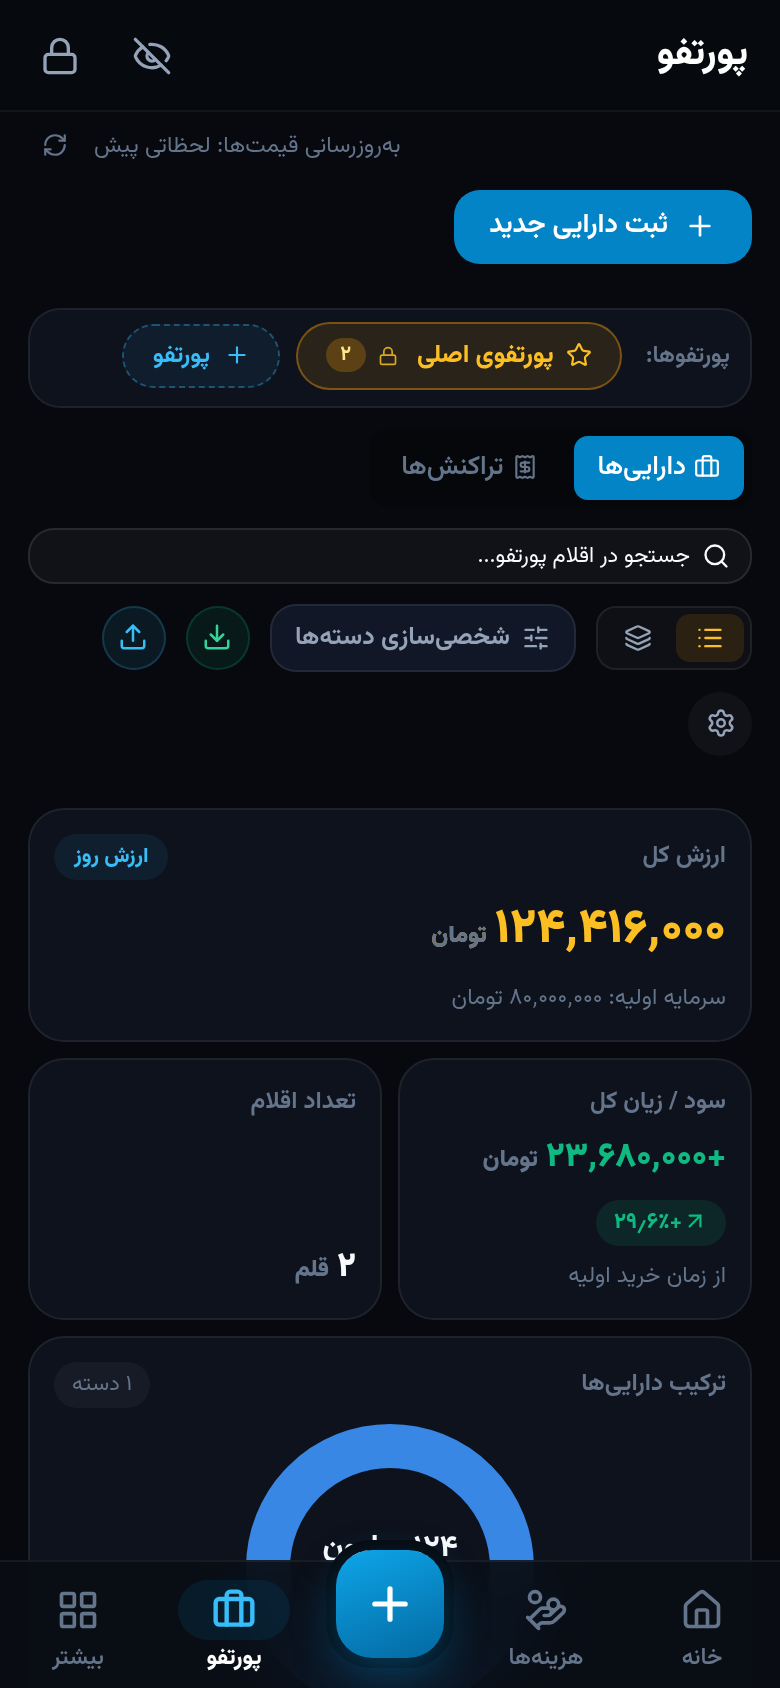
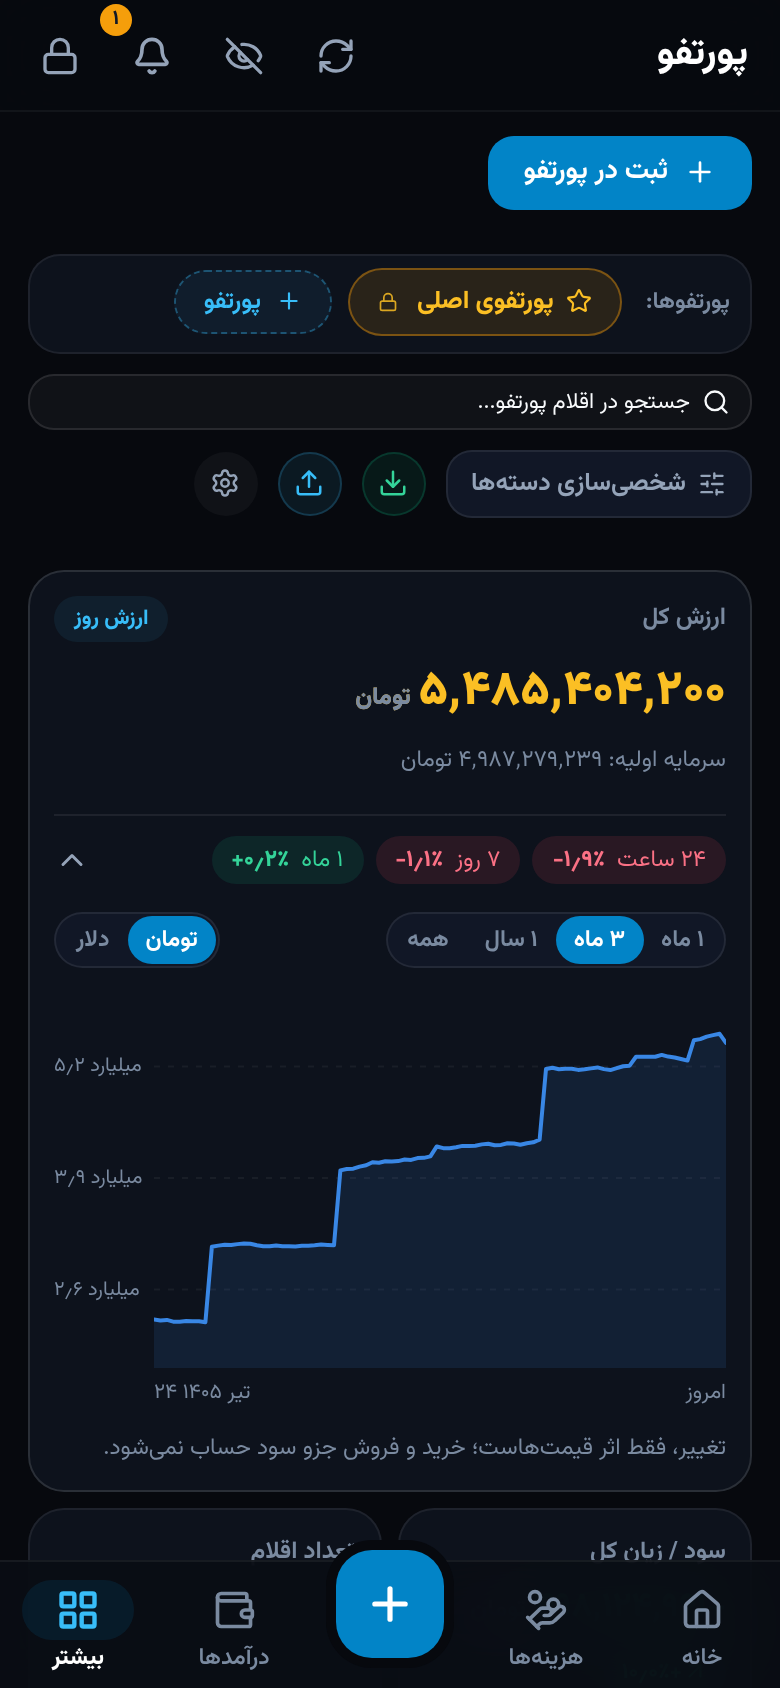
Refresh README screenshots and feature text
Claude-Session: https://claude.ai/code/session_01AQJzLh9vnnSBT1KQM6wZ1J

diff --git a/README.md b/README.md
@@ -18,40 +18,42 @@
 
 **RealRate** سامانه تحلیل بازار طلا، سکه و ارز و مدیریت مالی شخصی است که روی لبه Cloudflare اجرا میشود:
 ارزش ذاتی و حباب طلا و سکه، نرخ ارزها و بورس، اخبار مهم بازار و تحلیل روز با هوش مصنوعی، و مدیریت پورتفو، هزینهها، حسابها، وامها، درآمدها، چکها و اشتراکها با گزارش سالانه — همه با رمزنگاری سرتاسری.
-نسخهی وب در [realrate.geekio.org](https://realrate.geekio.org) است و اپ اندروید (با ثبت خودکار هزینه از پیامک بانک) از [صفحهی اپ](https://realrate.geekio.org/android) یا
+نسخهی وب در [realrate.geekio.org](https://realrate.geekio.org) است و اپ اندروید (نسخهی کامل با ثبت خودکار هزینه از پیامک بانک، و نسخهی بدون پیامک برای فروشگاههایی مثل Google Play) از [صفحهی اپ](https://realrate.geekio.org/android) یا
 [آخرین Release](https://github.com/nos486/realrate/releases/latest/download/realrate.apk) دانلود میشود.
 
 ## امکانات
 
 - **بازار**: ارزش ذاتی و حباب طلا و سکه (حباب سکهها را خود برنامه از انس و دلار حساب میکند)، ۱۶ ارز و تتر، نمادهای بورس و صندوقها — بهروزرسانی خودکار (هر سورس حداکثر هر ۵ دقیقه) و صفحهی اصلی قابل شخصیسازی (با میانگینها، داراییهای مرتبط، کارت ترکیبی با فرمول دلخواه و «آخرین تغییر» هر قیمت) (صفحهی نرخ و حباب برای کاربران Pro)
-- **پورتفو**: پورتفوهای چندگانه، تراکنش خرید/فروش با میانگین موزون، سود و زیان زنده، دستههای سفارشی، اشتراک عمومی
+- **پورتفو**: پورتفوهای چندگانه، تراکنش خرید/فروش با میانگین موزون، سود و زیان زنده، نمودار تاریخچهی ارزش از اولین خرید تا امروز (به تومان یا دلار، با تغییر ۲۴ ساعته، ۷ روزه و ۱ ماهه روی کارت «ارزش کل»)، دستههای سفارشی، اشتراک عمومی
 - **هزینهها**: هزینههای روزمره با دسته و بودجه ماهانه؛ پروژهها (پروژه جای هزینه است نه دستهی آن، و هر هزینهی پروژه دستهی خودش را دارد)؛ هر هزینه به تومان، دلار، یورو، لیر یا درهم با نرخ همان روز از تاریخچهی قیمت؛ «پرداخت از» حساب (یا ارزی که در پورتفو دارید) و «تأمین از» وام؛ پرداخت اشتراکها، اقساط و چکها خودکار هزینه ثبت میشوند؛ خروجی و ورود CSV
 - **حسابها**: حساب بانکی (بانکهای ایران و بانکهای خارجی و حسابهای آنلاین بینالمللی)، نقد و کیف پول، هر حساب با یک یا چند ارز و خرج این ماهِ هر ارز با معادل تومانی؛ منبع هر هزینه، تطبیق پیامکهای بانک و «انتقال بین حسابها»
 - **اعتبار بانکی** (تازه): سقف و بدهی، خرج از اعتبار، «تسویه بدهی» و «تبدیل به قسط» بهصورت دستی (هر قسط با تاریخ و مبلغ خودش) و کارمزد تسویه و قسطبندی که از همین مبلغها حساب و کنار رکوردش ثبت میشود
-- **وامها**: جدول اقساط، پرداخت و پرداخت اضافه، بانکها با لوگو، و «مصرف وام» (هزینهها و خریدهایی که با وام شد و بازده آنها در برابر سود وام)
+- **وامها**: جدول اقساط، ثبت پرداخت قسط با تاریخ و مبلغ خودش، پنهان بودن وامهای تسویهشده در فهرست، پرداخت و پرداخت اضافه، بانکها با لوگو، و «مصرف وام» (هزینهها و خریدهایی که با وام شد و بازده آنها در برابر سود وام)
 - **درآمدها**: ثبت و گزارش به تفکیک منبع و ماه، به تومان، دلار، یورو، لیر یا درهم (نرخ از تاریخچهی قیمت همان روز)؛ دستههایی مثل «فروش دارایی» خارج از جمع میمانند؛ خروجی و ورود CSV
 - **چکها**: دریافتی و صادره، سررسید، پیگیری وضعیت با سوابق، یادآوری و اسکن چک با هوش مصنوعی؛ چک روش پرداخت است نه دسته (هر چک «بابت» یک دسته و یک حساب)، و چکِ پاسشده خودکار درآمد یا هزینه ثبت میکند
 - **اشتراکها** (تازه): همهی اشتراکها به تومان یا هر ارز دیگر با دورهی تمدید، شروع و پایان؛ نوار پیشرفت دوره و روزهای مانده تا تمدید، جمع ماهانه و سالانه، ثبت پرداخت (پرداخت اشتراکهای خودکار بهعنوان هزینه) و یادآوری قبل از هر تمدید
 - **اخبار مهم بازار** (تازه): خبرهای دلار، طلا، نفت و اقتصاد از کانالهای خبری، که هوش مصنوعی (Workers AI) هر دقیقه بررسی و دستهبندی میکند — بدون تبلیغ، سیگنال و تکرار؛ با اهمیت ۱ تا ۳، مهمترینهای روز و هفته و اعلان خبرهای مهم
 - **تحلیل روز با هوش مصنوعی** (تازه): خلاصه و تحلیل خبرهای امروز، ارتباطشان و آنچه باید زیر نظر گرفت — بدون پیشبینی قیمت؛ آخرین تحلیل در صفحهی اول سایت هم دیده میشود
 - **گزارش سالانه** (تازه): سال شمسی در یک صفحه — درآمد و هزینه، نرخ پسانداز، سهم سرمایهگذاری از درآمد، ارزش دلاری و نکتههای سال؛ خروجی PDF و CSV
-- **اپ اندروید**: ناوبری پایین و «ثبت سریع»، خواندن خودکار پیامک برداشت و واریز بانک (بدون خروج متن پیامک از گوشی)، ثبت سریع و خودکار هزینههای کوچک، اثر انگشت و کار آفلاین
-- **رمزنگاری سرتاسری**: همه دادههای مالی روی دستگاه کاربر رمز میشوند؛ سرور فقط متن رمزشده را میبیند
+- **اپ اندروید**: ناوبری پایین و «ثبت سریع»، خواندن خودکار پیامک برداشت و واریز بانک (بدون خروج متن پیامک از گوشی)، ثبت سریع و خودکار هزینههای کوچک، اثر انگشت و کار آفلاین؛ هر ریلیز علاوه بر `realrate.apk` فایلهای نسخهدار `realrate-<نسخه>.apk`، نسخهی بدون پیامک `realrate-nosms-<نسخه>.apk` (بدون مجوز پیامک) و `realrate-nosms-<نسخه>.aab` (بستهی Google Play) دارد
+- **رمزنگاری سرتاسری**: همه دادههای مالی روی دستگاه کاربر رمز میشوند؛ سرور فقط متن رمزشده را میبیند. سایت هم مثل اپ نسخهی رمزشدهی دادهها را روی دستگاه نگه میدارد: تبها سریع باز میشوند و بدون اینترنت هم میشود ثبت کرد
 - **حساب کاربری و مدیریت**: ورود با گوگل یا ایمیل، حساب دمو، پنل مدیریت (کاربران، گروهها و دسترسی به ویژگیها، کاربران اپ و نسخههایشان، سورسهای قیمت)
 
 جزئیات: [docs/FEATURES.md](docs/FEATURES.md)
 
 ## تصاویر
 
-| پورتفو | هزینههای روزمره |
+| پورتفو و نمودار تاریخچهی ارزش | هزینههای روزمره |
 | :---: | :---: |
 | ![پورتفو](docs/screenshots/web-portfolio.png) | ![هزینهها](docs/screenshots/web-expenses.png) |
+| وامها و اقساط | گزارش سالانه |
+| ![وامها](docs/screenshots/web-loans.png) | ![گزارش سالانه](docs/screenshots/web-report.png) |
 
 <div align="center">
 
-| خانهی اپ | هزینهها | پیامک بانک | وامها |
+| خانهی اپ | هزینهها | پورتفو | وامها |
 | :---: | :---: | :---: | :---: |
-| <img src="docs/screenshots/app-home.png" width="200" alt="خانهی اپ"> | <img src="docs/screenshots/app-expenses.png" width="200" alt="هزینهها در اپ"> | <img src="docs/screenshots/app-sms.png" width="200" alt="پیامکهای بانک"> | <img src="docs/screenshots/app-loans.png" width="200" alt="وامها در اپ"> |
+| <img src="docs/screenshots/app-home.png" width="200" alt="خانهی اپ"> | <img src="docs/screenshots/app-expenses.png" width="200" alt="هزینهها در اپ"> | <img src="docs/screenshots/app-portfolio.png" width="200" alt="پورتفو در اپ"> | <img src="docs/screenshots/app-loans.png" width="200" alt="وامها در اپ"> |
 
 </div>
 

diff --git a/README.en.md b/README.en.md
@@ -19,7 +19,7 @@
 **RealRate** is a market analysis and personal finance app for Iran, running on Cloudflare's edge.
 It computes the intrinsic value and the bubble of gold and coins, tracks currencies, stocks and funds, and manages
 portfolios, expenses, accounts, loans, incomes, cheques and subscriptions — all end-to-end encrypted.
-The web app is at [realrate.geekio.org](https://realrate.geekio.org); the Android app (which records expenses from bank SMS) is on the
+The web app is at [realrate.geekio.org](https://realrate.geekio.org); the Android app (the full build records expenses from bank SMS; a no-SMS build is made for stores such as Google Play) is on the
 [app page](https://realrate.geekio.org/android) or the [latest release](https://github.com/nos486/realrate/releases/latest/download/realrate.apk).
 
 The interface is in Persian (right-to-left, Shamsi calendar, amounts in tomans).
@@ -27,34 +27,36 @@ The interface is in Persian (right-to-left, Shamsi calendar, amounts in tomans).
 ## Features
 
 - **Market**: intrinsic value and bubble of gold and coins (the coins' bubbles computed by the app from the ounce and the dollar), 16 currencies and USDT, Tehran Stock Exchange symbols and funds — updated automatically (each source at most every 5 minutes), on a home page each user lays out (averages, linked assets, cards combining assets with a formula, and when each price last changed, «آخرین تغییر») (the rates page is for Pro users)
-- **Portfolio**: multiple portfolios, buy/sell transactions with weighted average cost, live profit and loss, custom categories, public sharing
+- **Portfolio**: multiple portfolios, buy/sell transactions with weighted average cost, live profit and loss, a value-history chart from the first purchase to today (in tomans or dollars, with the 24-hour, 7-day and 1-month change on the «total value» card), custom categories, public sharing
 - **Expenses**: everyday expenses by category with monthly budgets; projects (a project is where an expense is, not its category, so each project expense keeps its own category); each expense in tomans, dollars, euros, lira or dirhams at that day's rate from the price history; the account that paid («پرداخت از», or that currency held in a portfolio) and the loan that funded it («تأمین از»); subscription, installment and cheque payments recorded as expenses automatically; CSV export and import
 - **Accounts**: bank accounts (Iranian banks, foreign banks and international online accounts), cash and wallets, each in one or more currencies with this month's spending per currency and its toman approximation; the source of every expense, the match for bank SMS, and transfers between accounts («انتقال بین حسابها»)
 - **Bank credit** (new): the limit and the debt, spending from the credit, «تسویه بدهی» and «تبدیل به قسط» by hand (each installment with its own day and amount), and the settlement and installment fees worked out from those amounts and kept with their record
-- **Loans**: installment schedule, payments and extra payments, banks with logos, and loan usage (what the loan paid for, and how those purchases did against the loan's rate)
+- **Loans**: installment schedule, paying an installment with its own day and amount, extra payments, settled loans hidden from the list by default, banks with logos, and loan usage (what the loan paid for, and how those purchases did against the loan's rate)
 - **Incomes**: by source and month, in tomans, dollars, euros, lira or dirhams (rate from that day's price history); categories such as «فروش دارایی» stay out of the totals; CSV export and import
 - **Cheques**: received and issued, due dates, status tracking with history, reminders, and AI cheque scanning; a cheque is a way of paying, not a category (each has its «بابت» category and an account), and a cleared cheque records its income or expense
 - **Subscriptions** (new): every subscription in tomans or another currency with its renewal cycle, start and end; the period's progress bar and days to renewal, the monthly and yearly total, recording a payment (auto-renewing ones recorded as expenses), and a reminder before each renewal
 - **Market news** (new): dollar, gold, oil and economy news from news channels, checked and sorted every minute by AI (Workers AI) — no ads, signals or duplicates; importance 1–3, the day's and week's top stories, and notifications for the important ones
 - **AI day's analysis** (new): what today's news says, how the stories connect and what to watch — no price predictions; the latest analysis is also on the website's landing page
 - **Yearly report** (new): a Shamsi year on one page — income and expenses, savings rate, the share of income invested, dollar value and the year's highlights; PDF and CSV export
-- **Android app**: bottom navigation and quick add, automatic reading of bank withdrawal and deposit SMS (the text never leaves the phone), one-tap and automatic recording of small expenses, fingerprint unlock, offline use
-- **End-to-end encryption**: all financial data is encrypted on the user's device; the server only sees ciphertext
+- **Android app**: bottom navigation and quick add, automatic reading of bank withdrawal and deposit SMS (the text never leaves the phone), one-tap and automatic recording of small expenses, fingerprint unlock, offline use; each release carries `realrate.apk` plus version-named `realrate-<version>.apk`, the no-SMS build `realrate-nosms-<version>.apk` (no SMS permission) and `realrate-nosms-<version>.aab` (Google Play bundle)
+- **End-to-end encryption**: all financial data is encrypted on the user's device; the server only sees ciphertext. The website, like the app, keeps an encrypted copy of the data on the device: tabs open fast and entries can be made offline
 - **Accounts and admin**: Google or email sign-in, a demo account, an admin panel (users, groups and feature access, Android app users and their versions, price sources)
 
 Details: [docs/en/FEATURES.md](docs/en/FEATURES.md)
 
 ## Screenshots
 
-| Portfolio | Everyday expenses |
+| Portfolio and its value history | Everyday expenses |
 | :---: | :---: |
 | ![Portfolio](docs/screenshots/web-portfolio.png) | ![Expenses](docs/screenshots/web-expenses.png) |
+| Loans | Yearly report |
+| ![Loans](docs/screenshots/web-loans.png) | ![Yearly report](docs/screenshots/web-report.png) |
 
 <div align="center">
 
-| App home | Expenses | Bank SMS | Loans |
+| App home | Expenses | Portfolio | Loans |
 | :---: | :---: | :---: | :---: |
-| <img src="docs/screenshots/app-home.png" width="200" alt="App home"> | <img src="docs/screenshots/app-expenses.png" width="200" alt="Expenses in the app"> | <img src="docs/screenshots/app-sms.png" width="200" alt="Bank SMS"> | <img src="docs/screenshots/app-loans.png" width="200" alt="Loans in the app"> |
+| <img src="docs/screenshots/app-home.png" width="200" alt="App home"> | <img src="docs/screenshots/app-expenses.png" width="200" alt="Expenses in the app"> | <img src="docs/screenshots/app-portfolio.png" width="200" alt="Portfolio in the app"> | <img src="docs/screenshots/app-loans.png" width="200" alt="Loans in the app"> |
 
 </div>
 
